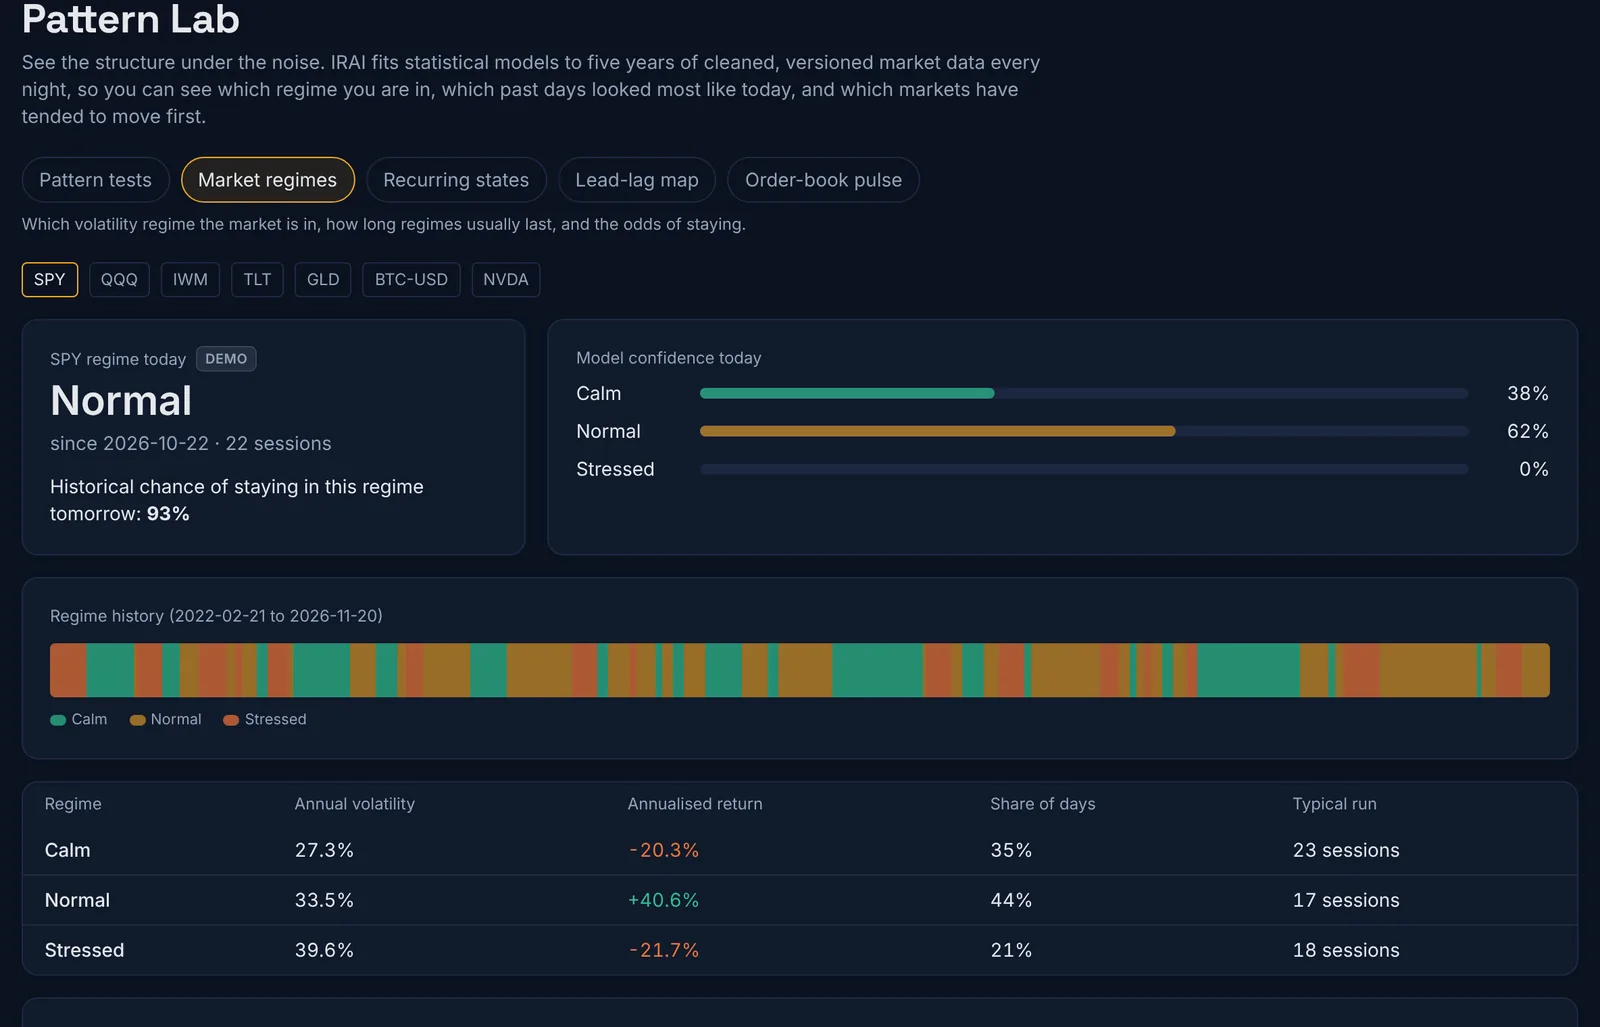
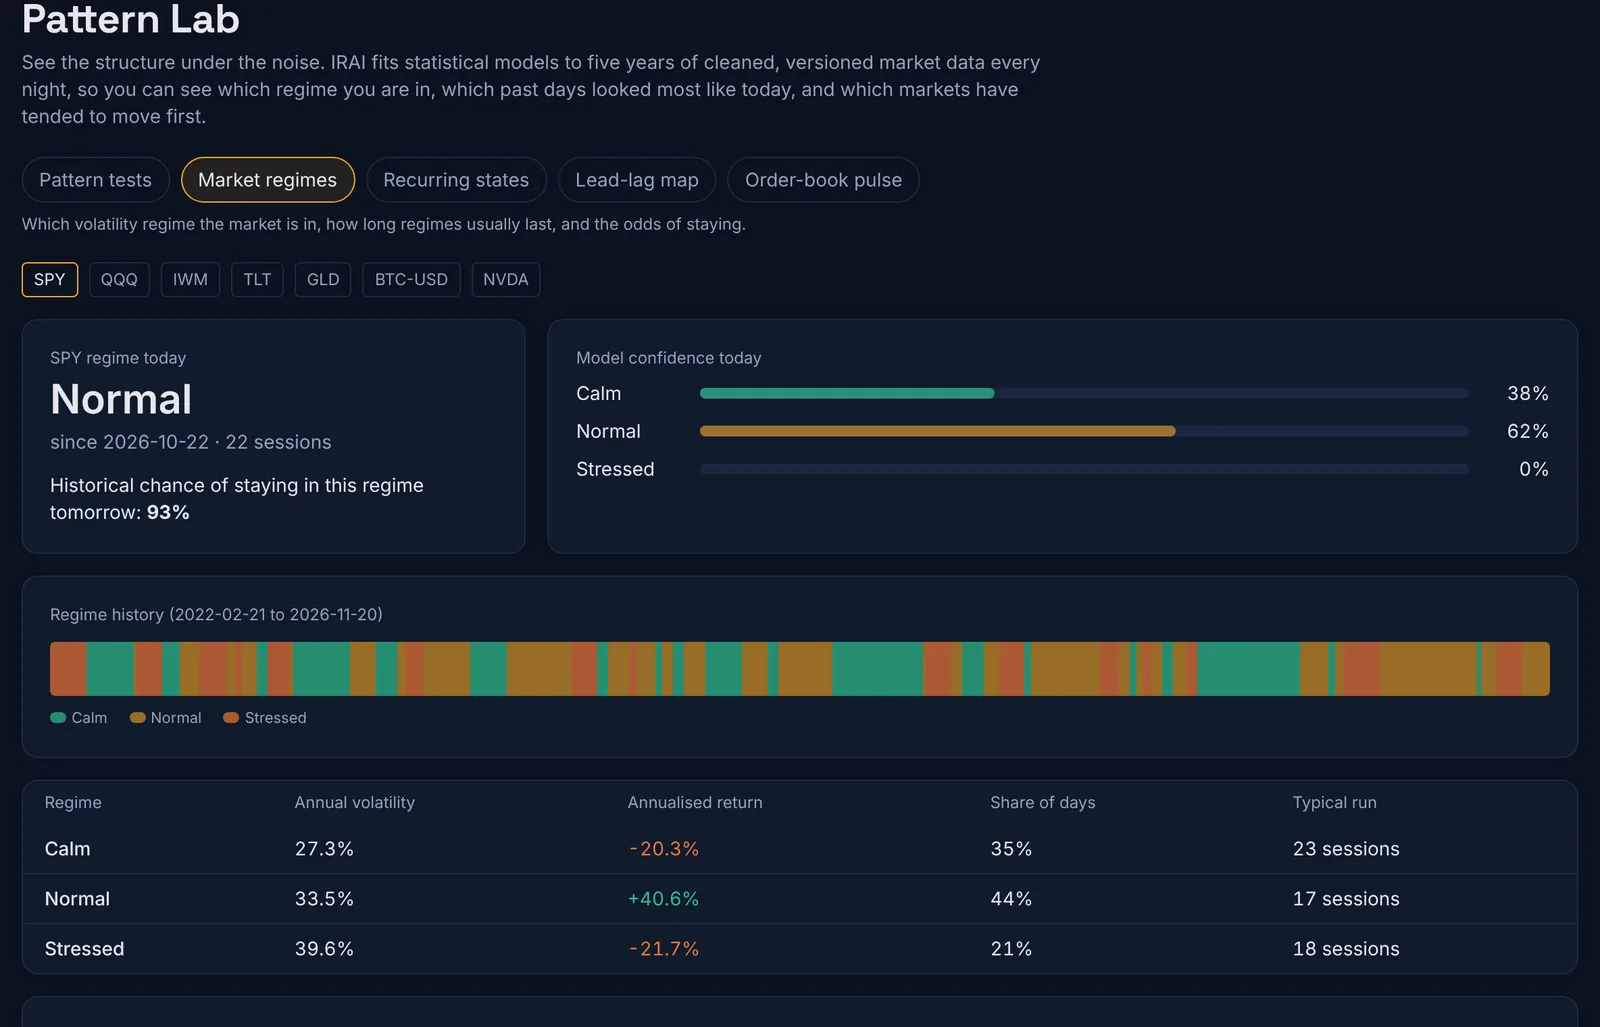
Showcase screenshots without demo labels; 'Illustrative screenshot' captions
Claude-Session: https://claude.ai/code/session_01QjQ2sa794mvemRMCwrhNX3

diff --git a/frontend/src/app/patterns/page.tsx b/frontend/src/app/patterns/page.tsx
@@ -45,7 +45,7 @@ function Patterns() {
               the complete lead-lag map, historical analogues, your own pattern tests and the live order-book ladder.</p>
             <ul className="mt-4 space-y-1 text-sm">{["Six patterns × six asset classes × four timeframes, retested nightly", "Only called robust if it passes every stress test", "Market regimes, recurring states and lead-lag links"].map(x => <li key={x}>✓ {x}</li>)}</ul>
             <div className="mt-5 flex gap-3"><Button href="/signup?next=/patterns">Start free</Button><Button variant="outline" href="/signup?plan=pro&next=/patterns">Try Pro free for 7 days</Button></div>
-            <p className="mt-2 text-[11px] text-muted">Screenshot uses demo data.</p></div>
+            <p className="mt-2 text-[11px] text-muted">Illustrative screenshot.</p></div>
         </div>
       ) : tab === "tests" ? <Tests /> : tab === "regimes" ? <Regimes initial={qSym} /> : tab === "states" ? <States /> : tab === "leadlag" ? <LeadLag /> : <Micro />}
       <p className="mt-6 text-[11px] text-muted">Statistical patterns describe the past and can stop working without warning. Pattern Lab is research and education, not a recommendation to buy or sell anything.</p>

diff --git a/frontend/src/app/algotrader/page.tsx b/frontend/src/app/algotrader/page.tsx
@@ -78,7 +78,7 @@ export default function AlgoTrader() {
           <p className="mt-3 text-muted">Each bot page puts the backtest that justified it next to its live paper record, metric by metric, so you can tell bad luck from a broken edge.
             Risk controls, the webhook and every fill sit on the same screen.</p>
           <ul className="mt-4 space-y-2 text-sm">{["57 statistics from CAGR and Sharpe to capture ratios and streaks", "Change a stop-loss or position cap in seconds", "Copy the webhook straight into a TradingView alert"].map(x => <li key={x}>✓ {x}</li>)}</ul>
-          <p className="mt-3 text-[11px] text-muted">Screenshot uses demo data. Backtests can overstate results; paper fills are an upper bound on live fills.</p></div>
+          <p className="mt-3 text-[11px] text-muted">Illustrative screenshot. Backtests can overstate results; paper fills are an upper bound on live fills.</p></div>
       </section>
 
       <section className="border-y border-line bg-card/40">

diff --git a/frontend/src/components/Tilt.tsx b/frontend/src/components/Tilt.tsx
@@ -71,7 +71,7 @@ export function FeatureShowcase({ items, note = true }: { items: Showcase[]; not
           </div>
         </div>
       ))}
-      {note && <p className="text-center text-[11px] text-muted">Product screenshots use demo data and are shown for illustration. Live pages label every number with its source.</p>}
+      {note && <p className="text-center text-[11px] text-muted">Illustrative product screenshots. Live pages label every number with its source.</p>}
     </div>
   );
 }
